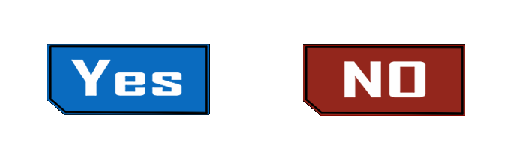
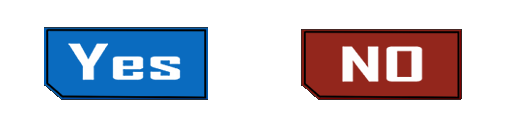
retry

Changed region(s): [[0.0588, 0.1875, 0.4118, 0.8125], [0.5882, 0.2188, 0.9118, 0.8125]]

diff --git a/Solution/App/SceneResult.cpp b/Solution/App/SceneResult.cpp
@@ -16,11 +16,9 @@ const int THICK_FRAME_SIZE = 57;
 const int SELECT_SIZE  = 512;
 const int CIRCLE_ANIME_FLAME = 1;
 const int MAX_CHOICE_COUNT = 25 * CIRCLE_ANIME_FLAME;
-const int DRAW_TIME = 100;
-const double FADE_IN_RETRY_TIME = 30;
 const int SELECT_TEXTURE_X = 512;
 const int SELECT_TEXTURE_Y = 128;
-const double SELECT_SMALL_SIZE = 0.5;
+const double SELECT_SMALL_SIZE = 0.75;
 
 SceneResult::SceneResult( int time, int col_num, bool clear, int crystal_carry_num ) :
 _select( 1 ),
@@ -132,21 +130,35 @@ void SceneResult::drawRetry( ) const {
 	int WIDTH = app->getWindowWidth( );
 	int HEIGHT = app->getWindowHeight( );
 
+	const int MAX_FLOW = 20;
 	const int TEXTURE_X = SELECT_TEXTURE_X;
 	const int TEXTURE_Y = SELECT_TEXTURE_Y;
 	int retry_sx = WIDTH / 2 - TEXTURE_X * 2 / 6;
 	int retry_sy = HEIGHT / 2 + TEXTURE_Y;
-	double RATIO = (double)( _count ) / FADE_IN_RETRY_TIME;
-	drawer->setSprite( Drawer::Sprite( Drawer::Transform( retry_sx, retry_sy, 0, 0, TEXTURE_X, TEXTURE_Y, retry_sx + TEXTURE_X * 2 / 3, retry_sy + TEXTURE_Y * 2 / 3 ), GRAPH_RETRY, Drawer::BLEND_ALPHA, RATIO ) );
+	drawer->setSprite( Drawer::Sprite( Drawer::Transform( retry_sx, retry_sy, 0, 0, TEXTURE_X, TEXTURE_Y, retry_sx + TEXTURE_X * 2 / 3, retry_sy + TEXTURE_Y * 2 / 3 ), GRAPH_RETRY ) );
 	{ // yes
+		int flow = _count % MAX_FLOW;
+		if ( flow > MAX_FLOW / 2 ) {
+			flow = MAX_FLOW - flow;
+		}
+		if ( !_retry ) {
+			flow = 0;
+		}
 		int select_sx2 = (int)( _select_pos[ 0 ].x + 256 * _select_pos[ 0 ].z );
 		int select_sy2 = (int)( _select_pos[ 0 ].y + 128 * _select_pos[ 0 ].z );
-		drawer->setSprite( Drawer::Sprite( Drawer::Transform( (int)_select_pos[ 0 ].x, (int)_select_pos[ 0 ].y, 0, 0, TEXTURE_X / 2, TEXTURE_Y, select_sx2, select_sy2 ), GRAPH_YES_NO ) );
+		drawer->setSprite( Drawer::Sprite( Drawer::Transform( (int)_select_pos[ 0 ].x - flow, (int)_select_pos[ 0 ].y - flow, 0, 0, TEXTURE_X / 2, TEXTURE_Y, select_sx2 + flow, select_sy2 + flow ), GRAPH_YES_NO ) );
 	}
 	{ // no
+		int flow = _count % MAX_FLOW;
+		if ( flow > MAX_FLOW / 2 ) {
+			flow = MAX_FLOW - flow;
+		}
+		if ( _retry ) {
+			flow = 0;
+		}
 		int select_sx2 = (int)( _select_pos[ 1 ].x + 256 * _select_pos[ 1 ].z );
 		int select_sy2 = (int)( _select_pos[ 1 ].y + 128 * _select_pos[ 1 ].z );
-		drawer->setSprite( Drawer::Sprite( Drawer::Transform( (int)_select_pos[ 1 ].x, (int)_select_pos[ 1 ].y, TEXTURE_X / 2, 0, TEXTURE_X / 2, TEXTURE_Y, select_sx2, select_sy2 ), GRAPH_YES_NO ) );
+		drawer->setSprite( Drawer::Sprite( Drawer::Transform( (int)_select_pos[ 1 ].x - flow, (int)_select_pos[ 1 ].y - flow, TEXTURE_X / 2, 0, TEXTURE_X / 2, TEXTURE_Y, select_sx2 + flow, select_sy2 + flow ), GRAPH_YES_NO ) );
 	}
 }
 
@@ -289,10 +301,6 @@ void SceneResult::drawFrame( ) const {
 }
 
 void SceneResult::drawCircle( ) const {
-	if ( _count < FADE_IN_RETRY_TIME ) {
-		return;
-	}
-
 	ApplicationPtr app = Application::getInstance( );
 	const int WIDTH = app->getWindowWidth( );
 	const int HEIGHT = app->getWindowHeight( );
